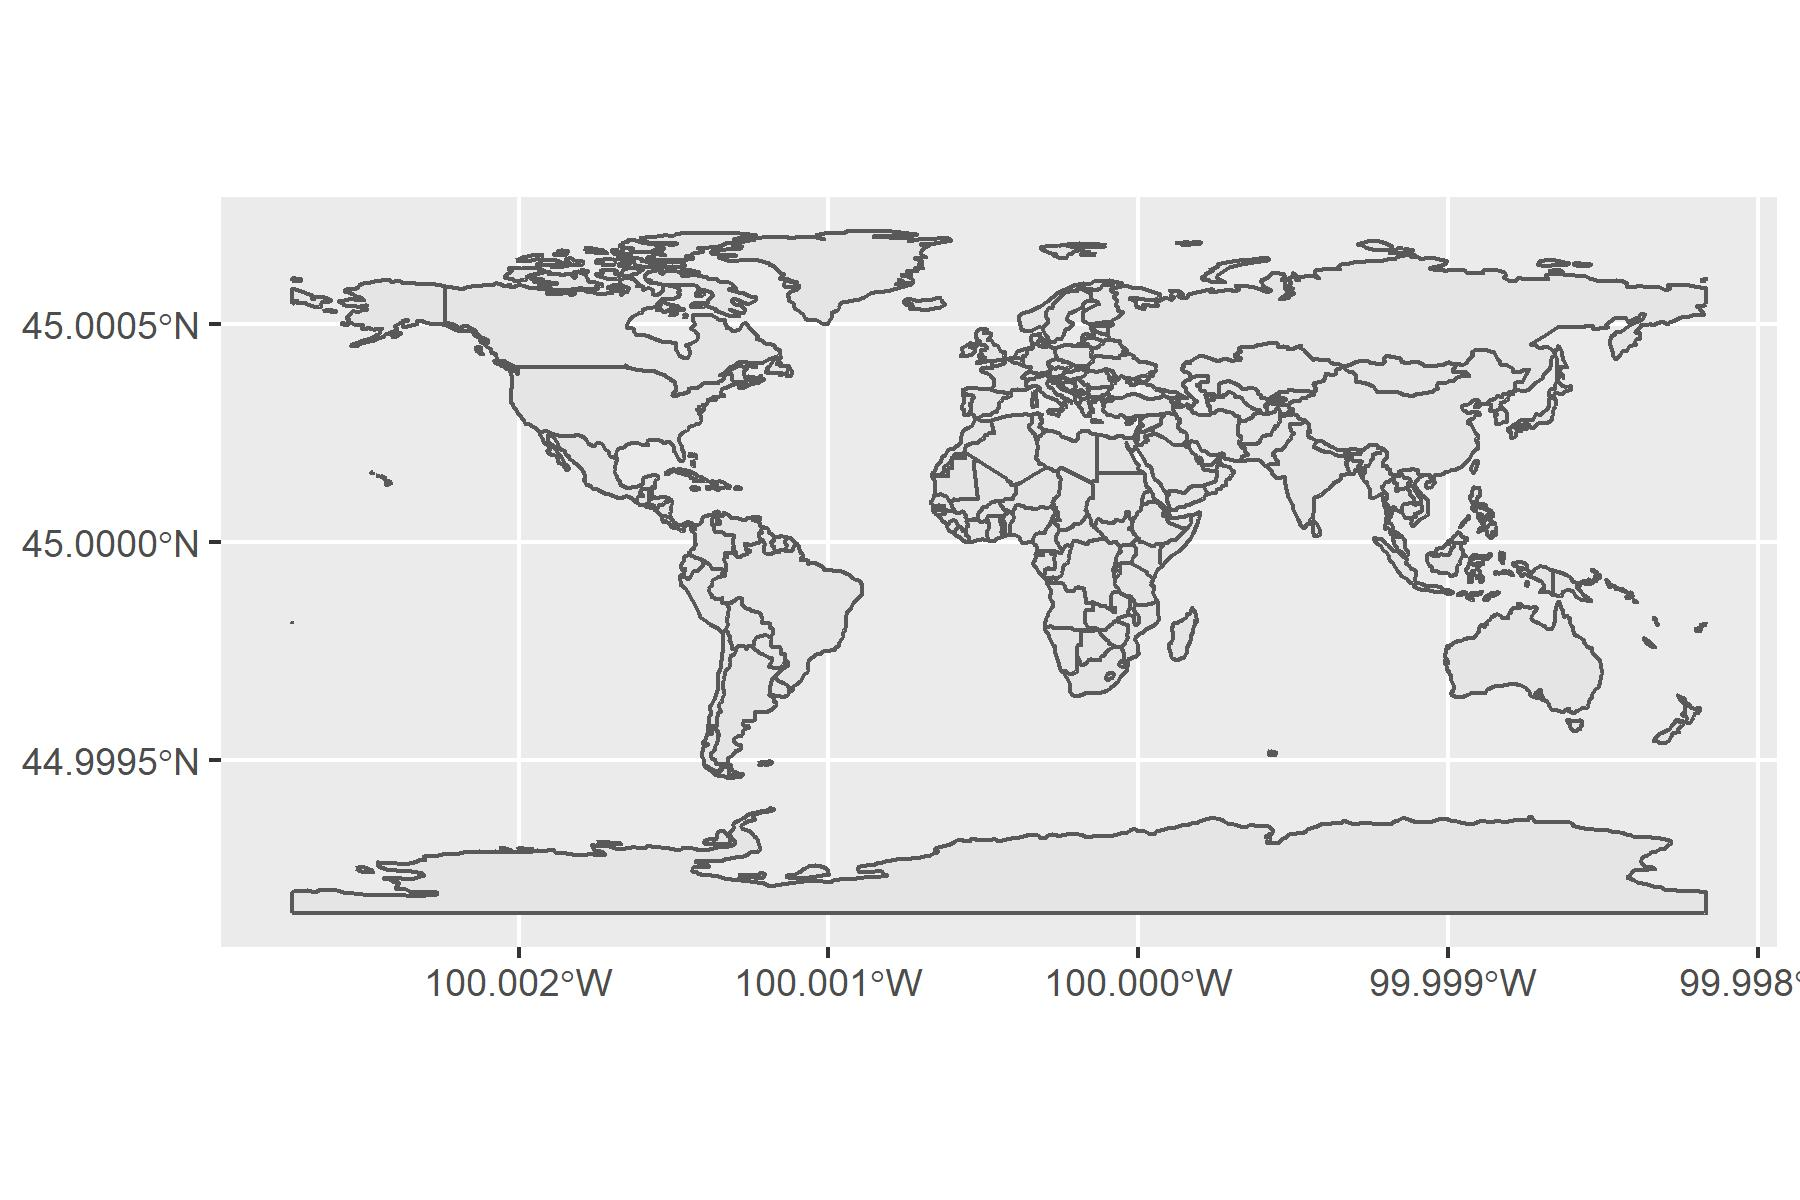
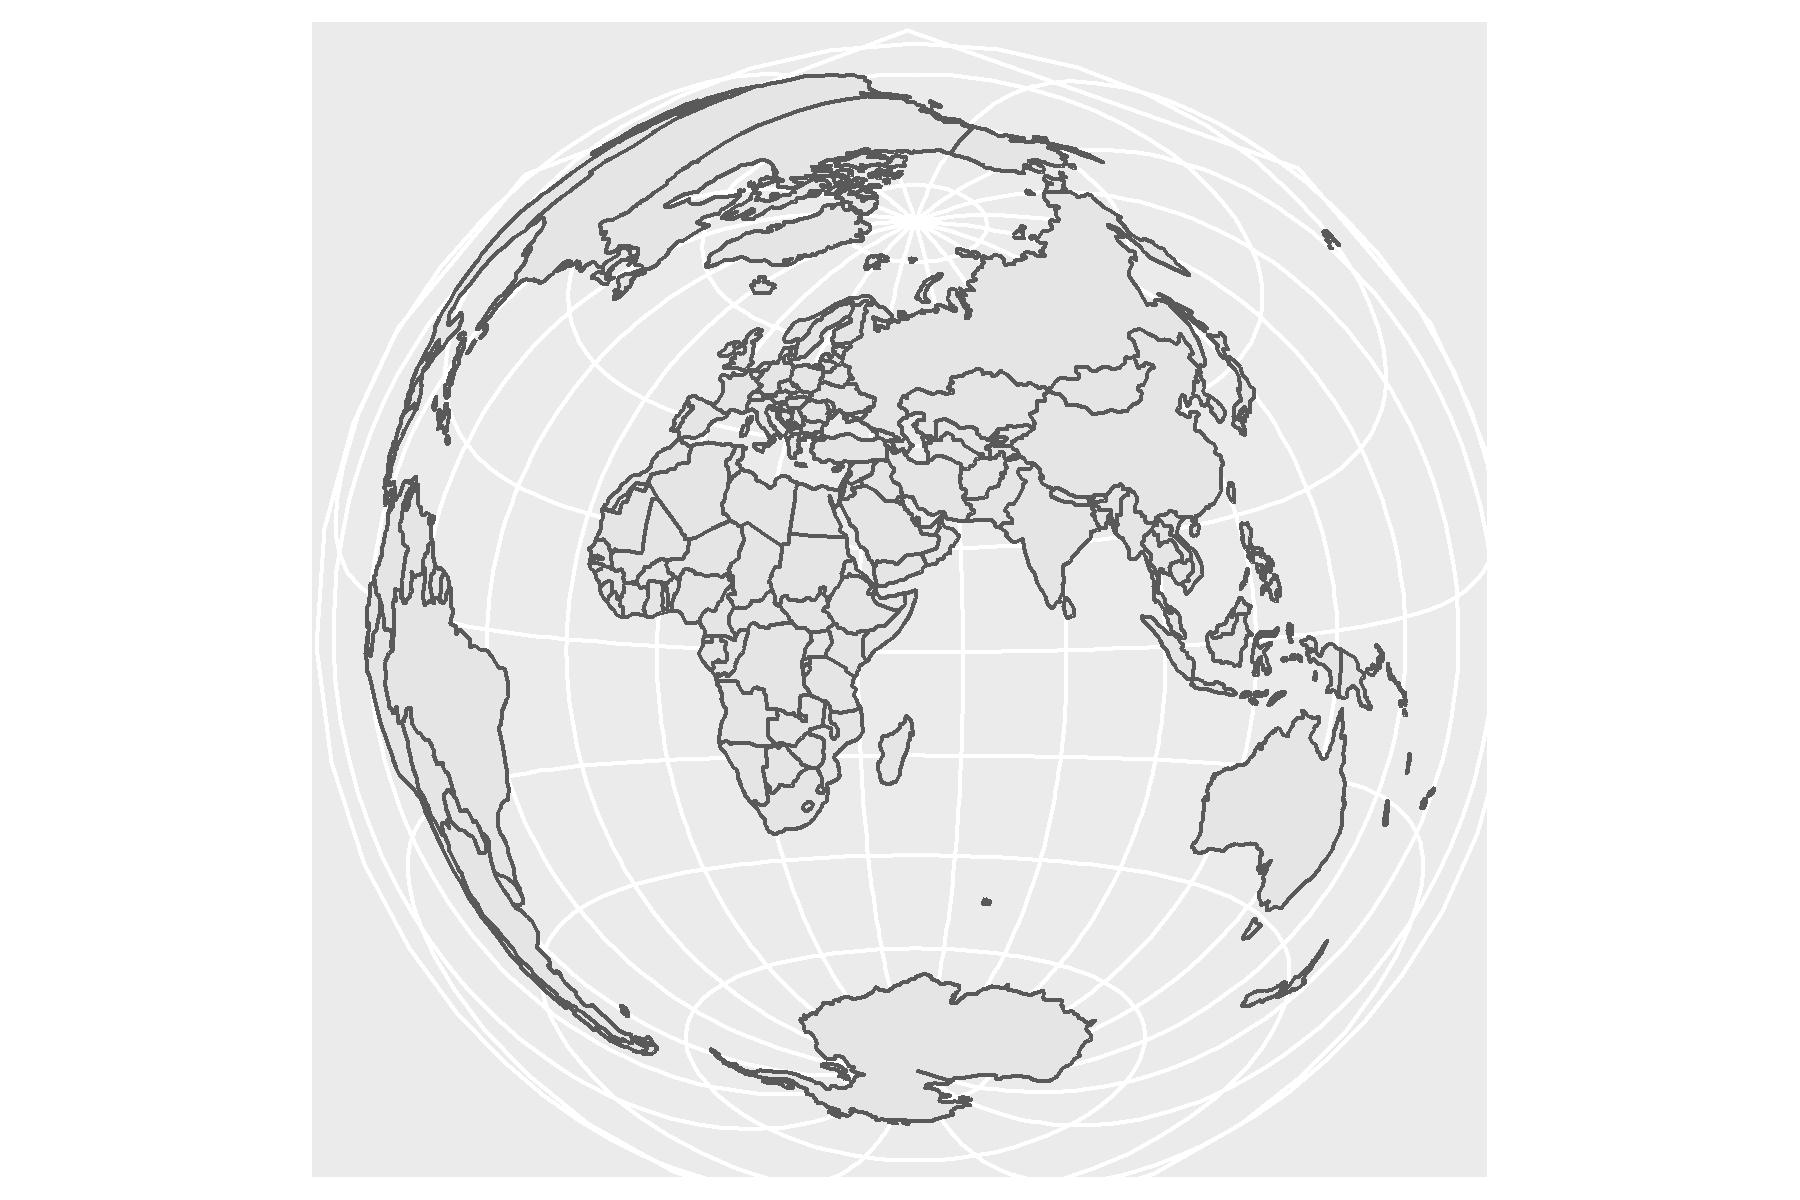
glad that's over (fixed source formatting, got Brussels centered projection to work)

diff --git a/sf_presentation.html b/sf_presentation.html
@@ -73,18 +73,19 @@ Refreshing you knowledge from your Geo-course during high school/undergrad-studi
 
 &lt;div align="center"&gt;
 &lt;img src="sf_presentation_files/figure-html/planar_coordinates.jpg" width=400&gt;
-&lt;/div&gt;
+&lt;/div&gt; &lt;div align="center"&gt;
 [Sreedevi, 2021 ](https://www.analyticsvidhya.com/blog/2021/09/how-to-visualise-data-in-maps-using-geopandas/)
-]
+]&lt;/div&gt;
 
 .pull-right[
 &lt;div align="center"&gt;
 &lt;br&gt;&lt;br&gt;
 &lt;img src="sf_presentation_files/figure-html/long_lat.jpg" width=400&gt;
-&lt;/div&gt;
+&lt;/div&gt; &lt;div align="center"&gt;
 [Mike Mitter, 2019](https://www.mikemitterer.at/2019/07/11/latitude-longitude-module-ist-auf-npmjs/
-)
-]
+) 
+] &lt;/div&gt;
+
 
 ---
 #CRS and Datums
@@ -113,19 +114,19 @@ Therefore, different Coordinate Reference Systems exist:
 &lt;div align="center"&gt;
 &lt;br&gt;
 &lt;img src="https://www.icsm.gov.au/sites/default/files/inline-images/regional_0.jpg" width=450&gt;
-&lt;/div&gt;
+&lt;/div&gt; &lt;div align="center"&gt;
 [IOSM Austrailia, 2021 ](https://www.icsm.gov.au/sites/default/files/inline-images/regional_0.jpg)
-]
+]&lt;/div&gt;
 
 ---
 
 # Introduction to sf package
 .pull-right[
-&lt;div align="center"&gt;
+&lt;div align="right"&gt;
 &lt;br&gt;
 &lt;img src="sf_presentation_files/figure-html/geomet.jpg" width=400&gt;
-&lt;/div&gt;
-[Geocomputation with R, 2021 ](https://edzer.github.io/rstudio_conf/#13)]
+&lt;/div&gt; &lt;div align="right"&gt;
+[Geocomputation with R, 2021 ](https://edzer.github.io/rstudio_conf/#13)]&lt;/div&gt;
 &lt;b&gt; Simple Features (sf) &lt;/b&gt; describe how objects in the real world (such as a building or a tree) can be represented in computers.
 
 Features have a &lt;i&gt;geometry &lt;/i&gt; describing &lt;i&gt;where &lt;/i&gt; on Earth the feature is located, and they have attributes, which describe other properties. 
@@ -138,7 +139,7 @@ Let’s look at how data is stored in a simple feature:
 
 
 ```r
-R&gt; class(nc) #nc is a shapefile within the package sf
+R&gt; class(nc) #nc is a shapefile for North Carolina
 ```
 
 ```
@@ -271,13 +272,20 @@ When the CRS is missing or the wrong CRS is set, the st_set_crs() function can b
 
 
 ```r
-R&gt; CRS_vector &lt;- st_set_crs(vector, "EPSG:4326") # set CRS
+R&gt; # For transformations use 'st_set_crs'
+R&gt; CRS_vector &lt;- sf::st_set_crs(world, "EPSG:4326") # set CRS
 ```
+
+
+
+
 
 
 ```r
-R&gt; Globe_vector &lt;- st_set_crs(CRS_vector, "EPSG:2163") # set CRS
+R&gt; # Shifting the projection to center on Brussels using the CRS
+R&gt; world_view_brussels &lt;- st_transform(world, crs = "+proj=laea +x_0=0 +y_0=0 +lon_0=50.8503396 +lat_0=4.3517103")
 ```
+
 
 
 .pull-left[
@@ -372,7 +380,7 @@ R&gt; #(would not be needed in this case)
 
 
 .pull-right[
-&lt;div align="centre"&gt;
+&lt;div align="center"&gt;
 &lt;img src="sf_presentation_files/figure-html/usstates.jpg" width=600&gt;
 &lt;/div&gt;]
 ]
@@ -403,7 +411,7 @@ R&gt; us_income_plot &lt;- plot(us_income["median_income_15"],
 
 
 .pull-right[
-&lt;div align="centre"&gt;
+&lt;div align="center"&gt;
 &lt;img src="sf_presentation_files/figure-html/us_2015.jpg" width=450&gt;
 &lt;/div&gt;]
 ]
@@ -412,11 +420,11 @@ R&gt; us_income_plot &lt;- plot(us_income["median_income_15"],
 
 - `sf` offers a comprehensive way to access and model with CRS data 
 
-- XXX
+- Remember the most common CRS in the world (WGS84/ EPSG code: 4326) and experiment with different codes.
 
-- using CRS for public policy it could be interesting to map certain data e.g. median income, voting behavior, covid-vaccionation rates, etc. 
+- CRS is used in combination with other tools to visualize public policy by mapping certain data e.g. median income, voting behavior, COVID-vaccination rates, etc. 
 
-- have a look at how to use this for data visualisatin purposes 
+- Continue to build on the skills in this session and have a look at how to use this for data visualization purposes 
 
 
 ---
